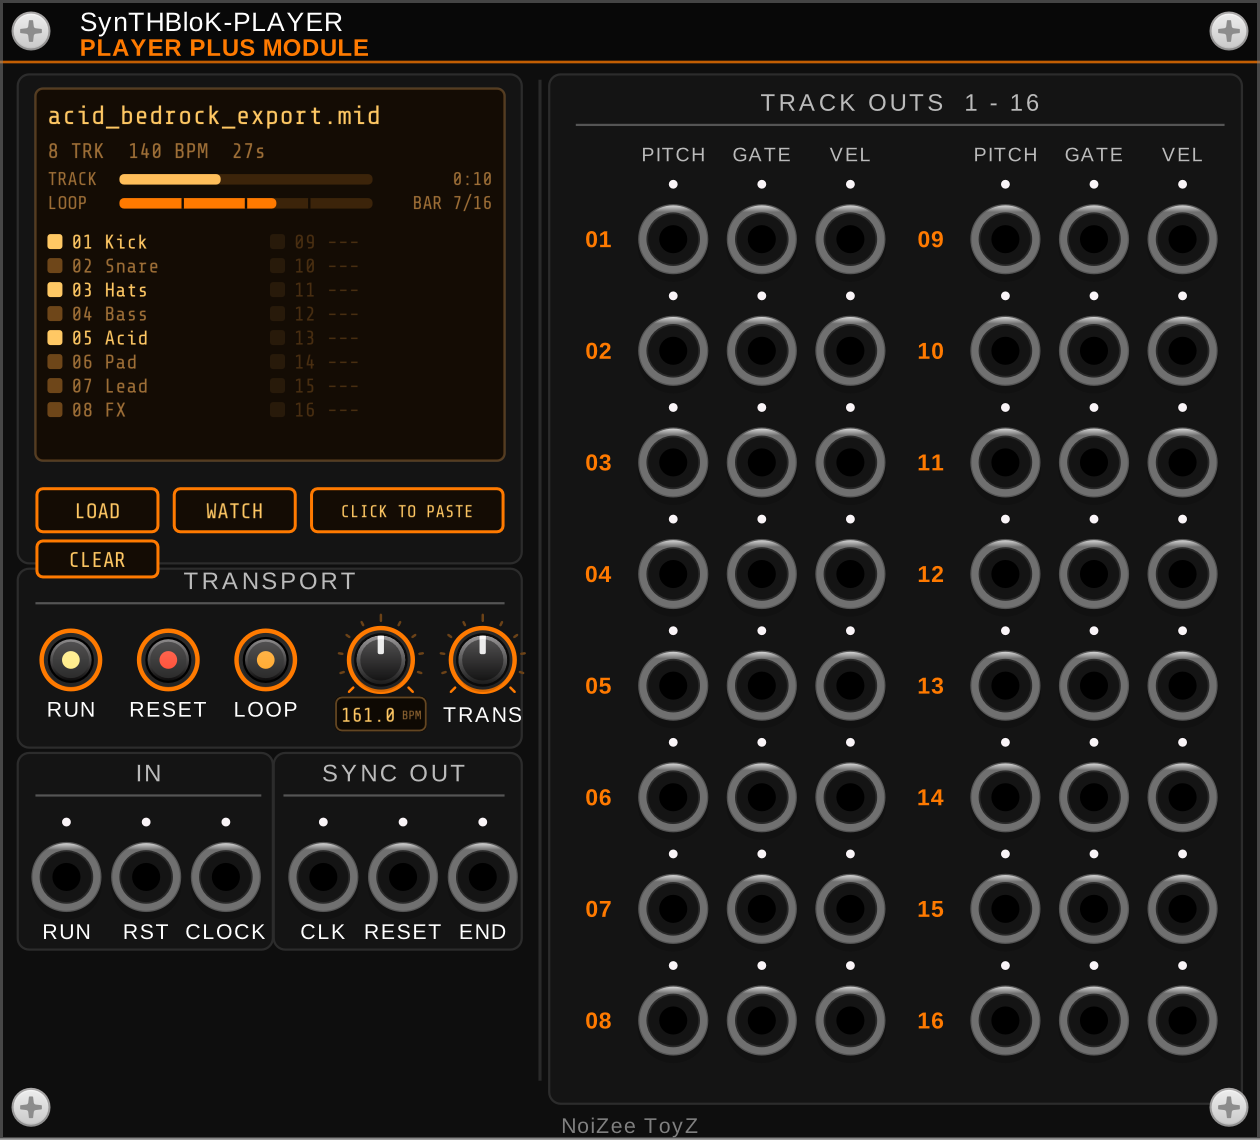
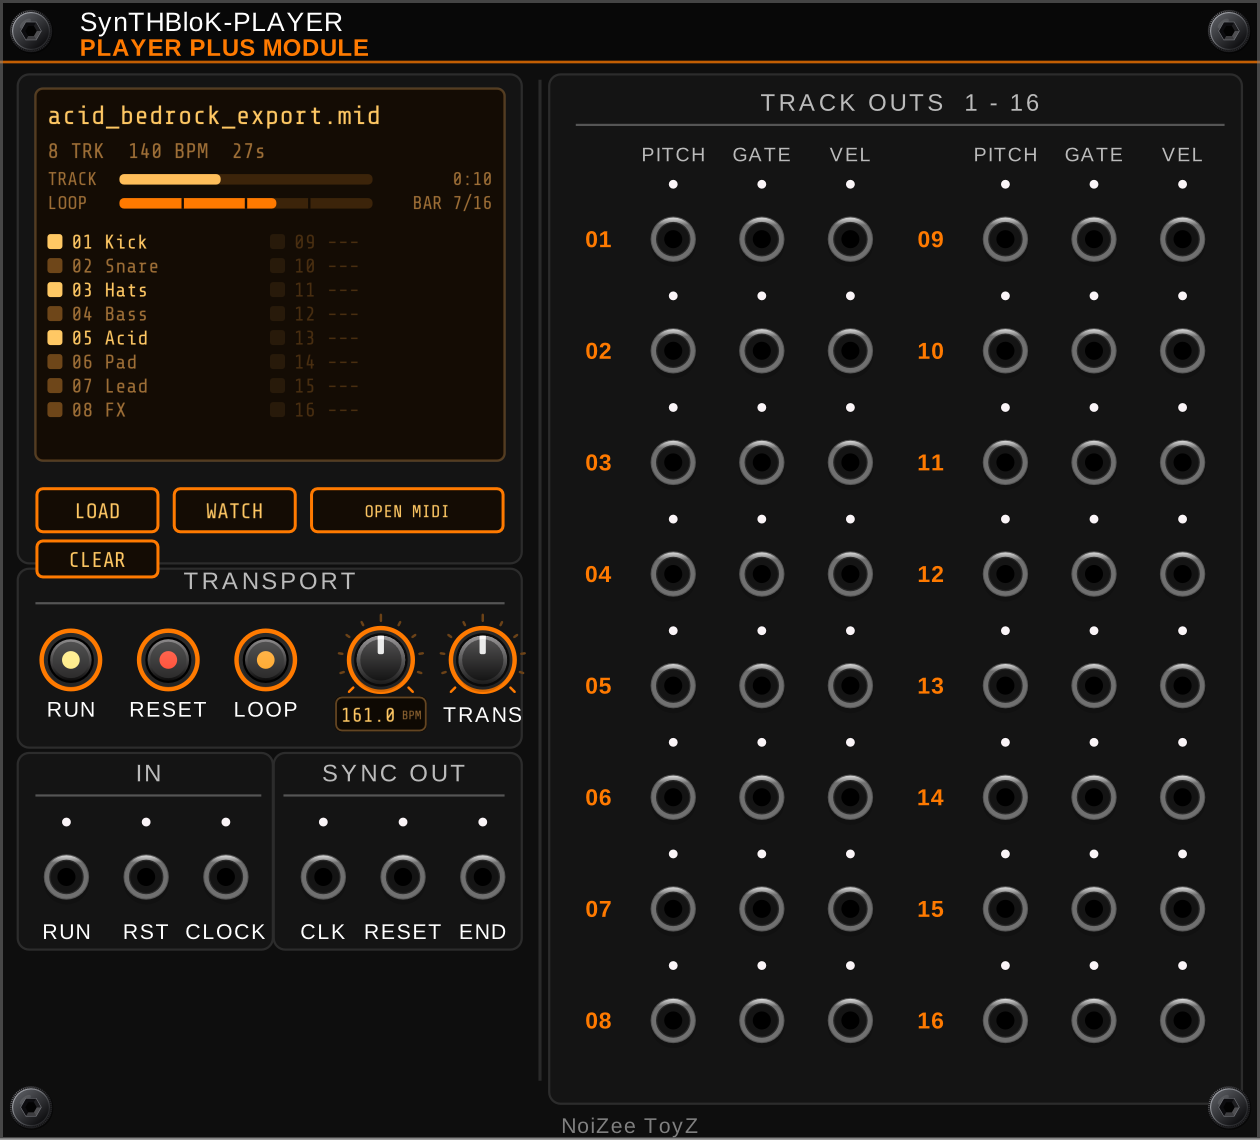
SynTHBloK-PlayerPlus 2.1.1: paste-a-script removed (it ran pasted Python on the user's machine); Player Plus now only opens MIDI files (OPEN MIDI)
Claude-Session: https://claude.ai/code/session_0118GTBMKUHfL3sZobFdnrkg

diff --git a/src/SynTHBloKPlayer.cpp b/src/SynTHBloKPlayer.cpp
@@ -8,14 +8,12 @@
 #include <memory>
 #include <mutex>
 #include <fstream>
-#include <sstream>
 #include <iterator>
 #include <sys/stat.h>
 #include <string>
 #include <cmath>
 #include <cstdlib>
 #include <cstring>
-#include <thread>
 #include <algorithm>
 #include <vector>
 #include <chrono>
@@ -80,14 +78,12 @@ struct SynTHBloKPlayer : Module, PlayerLinkProvider {
     std::mutex mu;
     std::shared_ptr<MidiSong> pending;
     std::atomic<bool> hasPending{false};
-    struct ScriptState { std::mutex m; std::string text = "CLICK TO PASTE"; bool busy = false; std::string loadPath, err; };
-    std::shared_ptr<ScriptState> script = std::make_shared<ScriptState>();
     std::string filePath, watchDir, status = "No file loaded";
     struct Part { std::shared_ptr<MidiSong> song; std::string path; int start; };
     std::vector<Part> parts;                          // every loaded file and the first track-out it sits on
     std::atomic<uint32_t> slotMask{0};                // track outs that have a file, for the panel
     std::string fileLabel;
-    std::string notice; double noticeUntil = 0.0;      // script messages shown on the OLED for a few seconds
+    std::string notice; double noticeUntil = 0.0;      // messages shown on the OLED for a few seconds
     bool autoPlay = false;
     std::vector<std::string> laneNamesUi;
     std::vector<double> clockUi;
@@ -276,7 +272,6 @@ struct SynTHBloKPlayer : Module, PlayerLinkProvider {
             pending.reset(); filePath.clear(); parts.clear(); slotMask = 0; fileLabel.clear(); laneNamesUi.clear(); lanesUi = 0; lengthUi = 0.0; bpmUi = 120.0;
             status = "No file loaded"; notice.clear();
         }
-        { std::lock_guard<std::mutex> g(script->m); if (!script->busy) script->text = "CLICK TO PASTE"; script->err.clear(); script->loadPath.clear(); }
         hasPending = true;
     }
 
@@ -613,142 +608,6 @@ static bool playerFolderDialog(SynTHBloKPlayer* m) {
     return true;
 }
 
-// ---------- paste-a-script: clipboard -> temp .py -> python -> .mid in the watch folder ----------
-static void playerRunClipboardScript(SynTHBloKPlayer* m) {
-    auto st = m->script;
-    auto setText = [st](const std::string& t, bool busy) { std::lock_guard<std::mutex> g(st->m); st->text = t; st->busy = busy; };
-    { std::lock_guard<std::mutex> g(st->m); if (st->busy) return; }
-    std::string dir;
-    { std::lock_guard<std::mutex> g(m->mu); dir = m->watchDir; }
-    if (dir.empty()) { setText("SET WATCH DIR", false); return; }
-    const char* clip = glfwGetClipboardString(APP->window->win);
-    std::string code = clip ? clip : "";
-    if (code.size() < 10) { setText("CLIPBOARD EMPTY", false); return; }
-    if (code.size() > 2000000) { setText("SCRIPT TOO BIG", false); return; }
-    std::string py = asset::user("SynTHBloK_pasted.py");
-    std::string log = asset::user("SynTHBloK_pasted.log");
-    {   // drop markdown code fences (``` or ```python) if the text was copied from a chat or web page
-        std::istringstream is(code); std::string line, outc;
-        while (std::getline(is, line)) {
-            std::string t = line; while (!t.empty() && (t.front() == ' ' || t.front() == '\t')) t.erase(t.begin());
-            if (t.compare(0, 3, "```") == 0) continue;
-            outc += line; outc += "\n";
-        }
-        code = outc;
-    }
-    { std::ofstream f(py, std::ios::binary); if (!f) { setText("CAN'T SAVE SCRIPT", false); return; } f << code; }
-    setText("SCRIPT PASTED", true);
-    std::thread([st, dir, py, log, setText]() {
-        double t0 = (double) std::time(nullptr) - 2.0;
-#ifdef ARCH_WIN
-        auto sh = [](const std::string& c) { return std::system(("\"" + c + "\"").c_str()); };
-        const std::string cdc = "cd /d \"" + dir + "\" && ";
-        const std::string quiet = " > nul 2>&1";
-        const char* cands[3] = {"python", "py -3", "python3"};
-#else
-        auto sh = [](const std::string& c) { return std::system(c.c_str()); };
-        const std::string cdc = "cd \"" + dir + "\" && ";
-        const std::string quiet = " > /dev/null 2>&1";
-        const char* cands[3] = {"python3", "python", "py -3"};
-#endif
-        std::string exe;
-        for (int i = 0; i < 3 && exe.empty(); i++)
-            if (sh(std::string(cands[i]) + " --version" + quiet) == 0) exe = cands[i];
-#ifdef ARCH_WIN
-        if (exe.empty()) {
-            const char* la2 = std::getenv("LOCALAPPDATA");
-            if (la2) {
-                std::string wa = std::string(la2) + "\\Microsoft\\WindowsApps\\python.exe";
-                if (system::isFile(wa) && sh("\"" + wa + "\" --version" + quiet) == 0) exe = "\"" + wa + "\"";
-            }
-        }
-        if (exe.empty()) {          // MSYS2's native Python (works from Rack without the MSYS2 shell)
-            for (const char* c : {"C:\\msys64\\mingw64\\bin\\python.exe", "C:\\msys64\\ucrt64\\bin\\python.exe", "C:\\msys64\\clang64\\bin\\python.exe"}) {
-                if (exe.empty() && system::isFile(c) && sh(std::string("\"") + c + "\" --version" + quiet) == 0) exe = std::string("\"") + c + "\"";
-            }
-        }
-        if (exe.empty()) {          // Rack may not see PATH changes: look in the usual install folders
-            std::vector<std::string> roots;
-            const char* la = std::getenv("LOCALAPPDATA");
-            if (la) roots.push_back(std::string(la) + "\\Python");             // Python 3.14 install manager
-            if (la) roots.push_back(std::string(la) + "\\Programs\\Python");
-            roots.push_back("C:\\Program Files\\Python");
-            roots.push_back("C:\\Program Files (x86)\\Python");
-            roots.push_back("C:\\");
-            for (const std::string& r : roots) {
-                try {
-                    std::vector<std::string> es = system::getEntries(r);
-                    std::sort(es.begin(), es.end());
-                    for (auto it = es.rbegin(); it != es.rend() && exe.empty(); ++it) {   // newest version first
-                        std::string base = system::getFilename(*it);
-                        if (base.size() < 6 || string::lowercase(base).compare(0, 6, "python") != 0) continue;
-                        std::string cand = "\"" + system::join(*it, "python.exe") + "\"";
-                        if (system::isFile(system::join(*it, "python.exe")) && sh(cand + " --version" + quiet) == 0) exe = cand;
-                    }
-                } catch (...) {}
-                if (!exe.empty()) break;
-            }
-        }
-#endif
-        if (exe.empty()) { setText("NO PYTHON FOUND", false); { std::lock_guard<std::mutex> g(st->m); st->err = "Python not found: install it from python.org (tick 'Add to PATH')"; } return; }
-
-        auto readLog = [&]() { std::ifstream f(log, std::ios::binary); return std::string((std::istreambuf_iterator<char>(f)), std::istreambuf_iterator<char>()); };
-        auto runIt = [&]() { setText("CONVERTING...", true); return sh(cdc + exe + " \"" + py + "\" > \"" + log + "\" 2>&1"); };
-
-        int rc = runIt();
-        std::string out = readLog();
-        for (int tries = 0; rc != 0 && tries < 2; tries++) {         // missing library? install it once and retry
-            size_t k = out.find("No module named '");
-            if (k == std::string::npos) break;
-            k += 17; size_t e = out.find('\'', k);
-            if (e == std::string::npos) break;
-            std::string mod = out.substr(k, e - k);
-            size_t dot = mod.find('.'); if (dot != std::string::npos) mod = mod.substr(0, dot);
-            bool ok = !mod.empty() && mod.find_first_not_of("abcdefghijklmnopqrstuvwxyzABCDEFGHIJKLMNOPQRSTUVWXYZ0123456789_-") == std::string::npos;
-            if (!ok) break;
-            std::string pkg = mod;
-            if (mod == "pretty_midi") pkg = "pretty_midi"; else if (mod == "midiutil") pkg = "MIDIUtil";
-            setText("INSTALLING " + mod, true);
-            if (sh(cdc + exe + " -m pip install " + pkg + " > \"" + log + ".pip\" 2>&1") != 0) { setText("PIP FAILED: " + mod, false); std::lock_guard<std::mutex> g(st->m); st->err = "pip could not install " + pkg; return; }
-            rc = runIt(); out = readLog();
-        }
-        // collect new .mid files from the watch folder and one level of sub-folders (scripts often write into their own folder)
-        std::string newest; int bestScore = -1; double best = 0.0;
-        auto consider = [&](const std::string& e) {
-            std::string ext = string::lowercase(system::getExtension(e));
-            if (ext != ".mid" && ext != ".midi") return;
-            double tm = fileMTime(e);
-            if (tm < t0) return;
-            std::string up = string::uppercase(system::getFilename(e));
-            int score = up.find("FULL_ARRANGEMENT") != std::string::npos ? 2 : (up.find("ARRANGEMENT") != std::string::npos ? 1 : 0);
-            if (score > bestScore || (score == bestScore && tm >= best)) { newest = e; bestScore = score; best = tm; }
-        };
-        try {
-            for (const std::string& e : system::getEntries(dir)) {
-                if (system::isDirectory(e)) {
-                    try { for (const std::string& e2 : system::getEntries(e)) if (system::isFile(e2)) consider(e2); } catch (...) {}
-                } else if (system::isFile(e)) consider(e);
-            }
-        } catch (...) {}
-        if (rc != 0) {
-            std::string last, line;
-            std::istringstream is(out);
-            while (std::getline(is, line)) { while (!line.empty() && (line.back() == '\r' || line.back() == ' ')) line.pop_back(); if (!line.empty()) last = line; }
-            setText("SCRIPT ERROR", false);
-            std::string where;
-            size_t ln = out.rfind(", line ");
-            if (ln != std::string::npos) { size_t e = ln + 7; while (e < out.size() && std::isdigit((unsigned char) out[e])) e++; where = "line " + out.substr(ln + 7, e - ln - 7) + ": "; }
-            std::lock_guard<std::mutex> g(st->m); st->err = last.empty() ? "Script failed" : where + last;
-        } else if (newest.empty()) {
-            setText("NO MIDI WRITTEN", false);
-            std::lock_guard<std::mutex> g(st->m); st->err = "Script ran but wrote no .mid into the watch folder";
-        } else {
-            setText("CONVERTED", false);
-            std::lock_guard<std::mutex> g(st->m); st->err.clear(); st->loadPath = newest;
-        }
-    }).detach();
-}
-
 // ---------- OLED display (same look as the FX module) ----------
 struct PlayerDisplay : TransparentWidget {
     SynTHBloKPlayer* module = nullptr;
@@ -885,7 +744,6 @@ struct PlayerButton : TransparentWidget {
     std::function<std::string()> dyn;
     float fs = 9.5f;
     bool hover = false;
-    std::function<void()> onPaste;
     std::function<void()> onClick;
     std::function<bool()> lit;
     std::shared_ptr<window::Font> font;
@@ -907,10 +765,6 @@ struct PlayerButton : TransparentWidget {
         nvgFillColor(a.vg, nvgRGBA(255, 200, 100, 255));
         nvgTextAlign(a.vg, NVG_ALIGN_CENTER | NVG_ALIGN_MIDDLE);
         std::string t = dyn ? dyn() : label;
-        if (hover && onPaste && t == "CLICK TO PASTE") {          // idle + hovered: show a blinking cursor and the hint
-            bool blink = ((int) (system::getTime() * 2.0)) % 2 == 0;
-            t = blink ? "CLICK TO PASTE_" : "CLICK TO PASTE";
-        }
         nvgText(a.vg, box.size.x / 2, box.size.y / 2 + 0.5f, t.c_str(), nullptr);
     }
     void onButton(const event::Button& e) override {
@@ -922,12 +776,6 @@ struct PlayerButton : TransparentWidget {
     void onHover(const event::Hover& e) override { e.consume(this); }
     void onEnter(const event::Enter& e) override { hover = true; }
     void onLeave(const event::Leave& e) override { hover = false; }
-    void onHoverKey(const event::HoverKey& e) override {
-        if (onPaste && e.action == GLFW_PRESS && e.key == GLFW_KEY_V && (e.mods & RACK_MOD_MASK) == RACK_MOD_CTRL) {
-            onPaste();
-            e.consume(this);
-        }
-    }
 };
 
 // small OLED under the tempo knob: BPM now playing, EXT while a clock is patched in
@@ -1007,17 +855,13 @@ struct SynTHBloKPlayerWidget : ModuleWidget {
         bw->lit = [=]() { if (!module) return false; std::lock_guard<std::mutex> g(module->mu); return !module->watchDir.empty(); };
         addChild(bw);
 
-        // paste box: click = take the Python script from the clipboard and convert it; shows the state
+        // OPEN MIDI (Nov 12 2026): opens a .mid / .midi file (where the old paste-a-Python-script box was: removed, it ran
+        // clipboard text as a program). Files can also be dragged onto the module (onPathDrop).
         auto* bp = new PlayerButton();
         bp->fs = 6.5f;
         bp->box.pos = mm2px(Vec(35.f, 55.f)); bp->box.size = mm2px(Vec(21.96f, 5.2f));
-        bp->dyn = [=]() -> std::string {
-            if (!module) return "CLICK TO PASTE";
-            std::lock_guard<std::mutex> g(module->script->m); return module->script->text;
-        };
-        bp->lit = [=]() { if (!module) return false; std::lock_guard<std::mutex> g(module->script->m); return module->script->busy || module->script->text == "CONVERTED"; };
-        bp->onClick = [=]() { if (module) playerRunClipboardScript(module); };
-        bp->onPaste = bp->onClick;
+        bp->label = "OPEN MIDI";
+        bp->onClick = [=]() { if (module) playerLoadDialog(module); };
         addChild(bp);
 
         float y1 = 74.5f;
@@ -1076,12 +920,6 @@ struct SynTHBloKPlayerWidget : ModuleWidget {
         ModuleWidget::step();
         auto* m = dynamic_cast<SynTHBloKPlayer*>(module);
         if (!m) return;
-        {   // results from the paste-a-script worker
-            std::string lp, er;
-            { std::lock_guard<std::mutex> g(m->script->m); lp.swap(m->script->loadPath); er.swap(m->script->err); }
-            if (!er.empty()) { std::lock_guard<std::mutex> g(m->mu); m->notice = er; m->noticeUntil = system::getTime() + 10.0; }
-            if (!lp.empty()) { m->loadFile(lp); seenPath = lp; seenTime = fileMTime(lp); primed = true; pendPath.clear(); }
-        }
         if (++tick < 90) return;          // about every 1.5 s
         tick = 0;
         std::string dir;

diff --git a/src/plugin.hpp b/src/plugin.hpp
@@ -1,5 +1,6 @@
 #pragma once
 #include "rack.hpp"
+#include <set>
 
 using namespace rack;
 
@@ -44,11 +45,19 @@ extern Model* modelSynTHBloKLoop;
 extern Model* modelSynTHBloKMtxQuad;
 extern Model* modelSynTHBloKDualFilter;
 extern Model* modelSynTHBloKRandroyd;
+extern Model* modelNoizeePatchGen;
+// the module ids PATCH GEN placed (src/NoizeePatchGen.cpp): RANDROYD never patches into them
+std::set<int64_t>& patchGenOwned();
+// ONE RIG: set by a RANDROYD in the rack; PATCH GEN calls it so its patch packs into RANDROYD's rig
+#include <functional>
+std::function<void(history::ComplexAction*)>& randroydPackHook();
 
 // VCV-size jack (23.7 px, the same as Rack's PJ301M): black body with a silver ring.
 // Used on every module but the JAM and MIX-24.
 struct BlackJack : app::SvgPort {
-    BlackJack() { setSvg(APP->window->loadSvg(asset::plugin(pluginInstance, "res/JackBlackSilver.svg"))); }
+    // (Nov 14 2026, Nick: "make all the jacks match small jacks": every module's jacks are the 5.2 mm small jack now; the
+    // 8 mm black / silver art stays in res/ in case it comes back. Jacks are placed by their centre, so they stay put.)
+    BlackJack() { setSvg(APP->window->loadSvg(asset::plugin(pluginInstance, "res/JackSmall.svg"))); }
 };
 
 // Small version of BlackJack (5.2 mm), for the JAM and MIX-24 modules.
